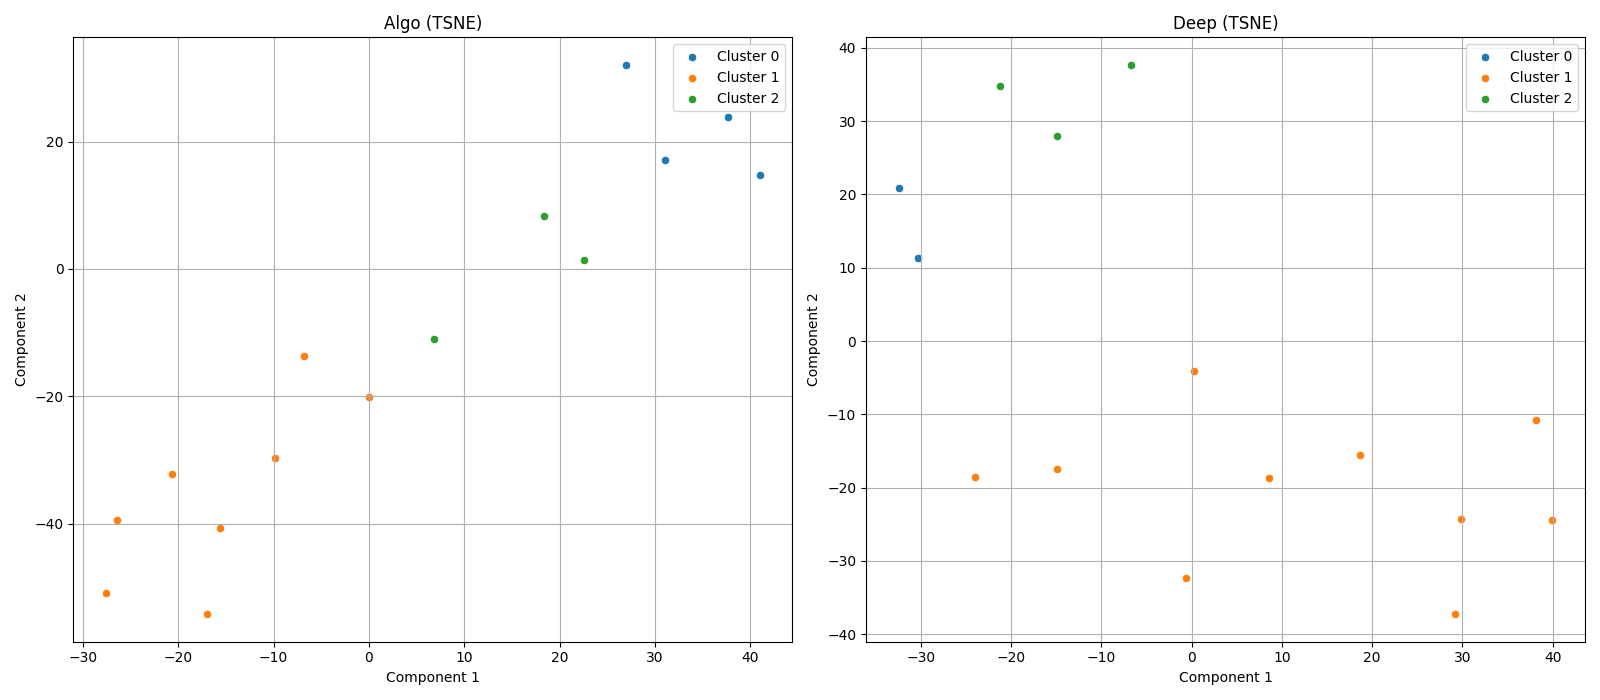
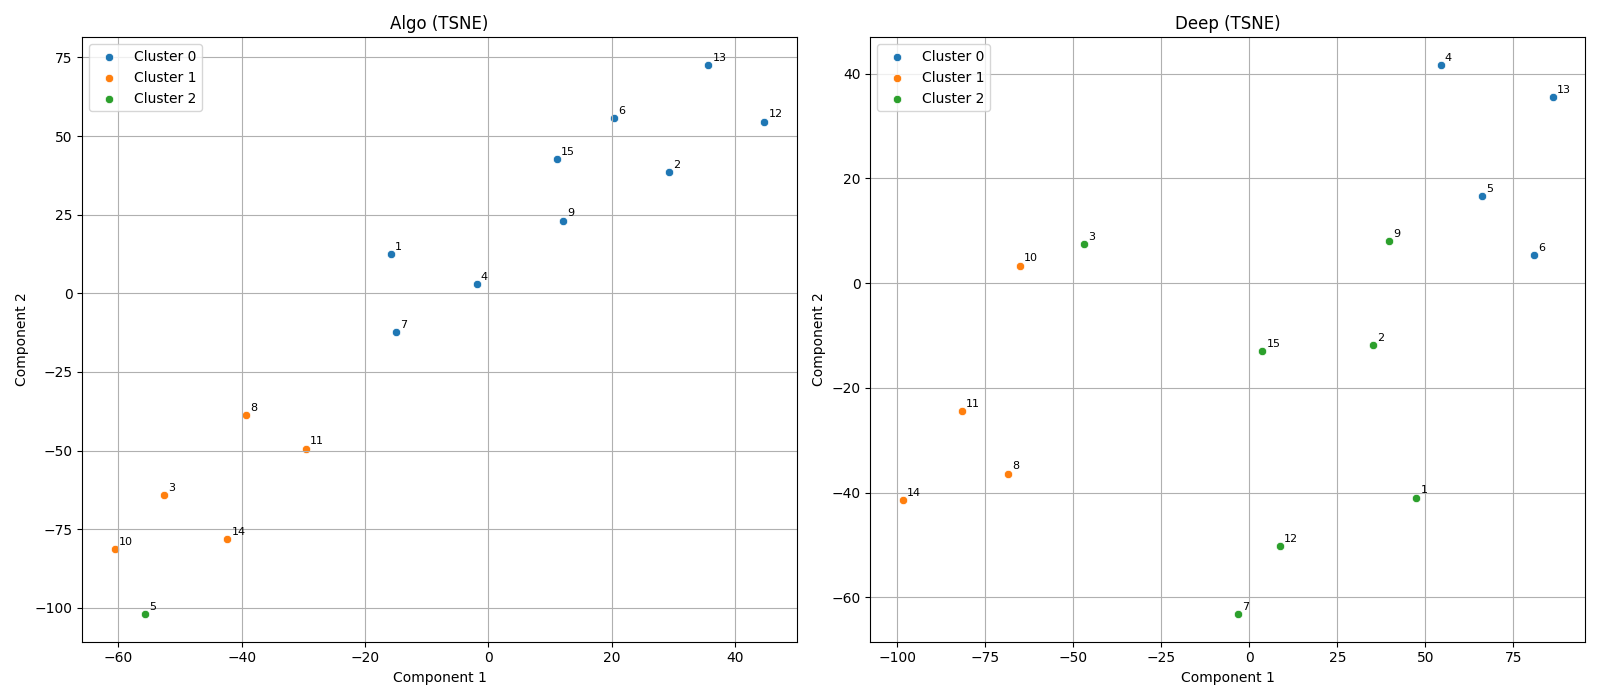
add song identificators on plots

diff --git a/scripts/visualize.py b/scripts/visualize.py
@@ -31,7 +31,8 @@ def plot_comparison(
     output_path: str,
 ) -> None:
     """
-    Plot a side-by-side comparison of 2D reduced features from different sorters.
+    Plot a side-by-side comparison of 2D reduced features from different sorters,
+    and annotate each point with its song id corresponding to the sorted list of file paths.
 
     :param reduced_dict: A dictionary mapping sorter names to their reduced feature arrays.
     :param labels_dict: A dictionary mapping sorter names to their cluster labels.
@@ -41,10 +42,12 @@ def plot_comparison(
     fig, axes = plt.subplots(1, 2, figsize=(16, 7))
     colormap = plt.get_cmap("tab10")
 
+    # Use the same iteration order on both dicts.
     for ax, (sorter_name, reduced) in zip(axes, reduced_dict.items()):
         labels = labels_dict[sorter_name]
         unique_labels = np.unique(labels)
 
+        # Plot by clusters
         for i, label in enumerate(unique_labels):
             points = reduced[labels == label]
             ax.scatter(
@@ -54,6 +57,17 @@ def plot_comparison(
                 label=f"Cluster {label}",
                 edgecolors="w",
                 linewidths=0.5,
+            )
+
+        # Annotate each point with its song id (based on the sorted file order)
+        for idx, (x, y) in enumerate(reduced):
+            # The song id is the index+1
+            ax.annotate(
+                str(idx + 1),
+                (x, y),
+                textcoords="offset points",
+                xytext=(3, 3),
+                fontsize=8,
             )
 
         ax.set_title(f"{sorter_name.capitalize()} ({method.upper()})")
@@ -83,19 +97,22 @@ def main() -> None:
     }
     folder_path = "data/audio"
     num_clusters = 3
+
+    # Retrieve and sort file paths by alphabet
     file_paths: List[str] = get_audio_file_paths(folder_path)
+    file_paths = sorted(file_paths)  # Ensure files are processed in alphabetical order
 
     features_dict: Dict[str, np.ndarray] = {}
     labels_dict: Dict[str, np.ndarray] = {}
 
-    # Extract features and labels
+    # Extract features and labels for each sorter
     for sorter_name, sorter in sorters.items():
         features = [sorter.extract_features_for_file(p) for p in file_paths]
         labels = sorter._cluster_features(features, num_clusters)
         features_dict[sorter_name] = np.array(features)
         labels_dict[sorter_name] = np.array(labels)
 
-    # Plot comparisons
+    # Perform dimensionality reduction and plot comparisons for both PCA and t-SNE.
     for method in ["pca", "tsne"]:
         reduced_dict = {
             name: reduce_dimensions(feats, method) for name, feats in features_dict.items()

diff --git a/src/vibesort/base_sorter.py b/src/vibesort/base_sorter.py
@@ -49,7 +49,7 @@ class BaseVibeSorter(abc.ABC):
         :param output_file: Optional path to save the result as a JSON file.
         :return: Dictionary containing the clustered playlists.
         """
-        file_paths = get_audio_file_paths(folder_path)
+        file_paths = sorted(get_audio_file_paths(folder_path))
         self.logger.info(f"Found {len(file_paths)} audio files to process.")
 
         self.logger.info("Extracting features from audio files...")
